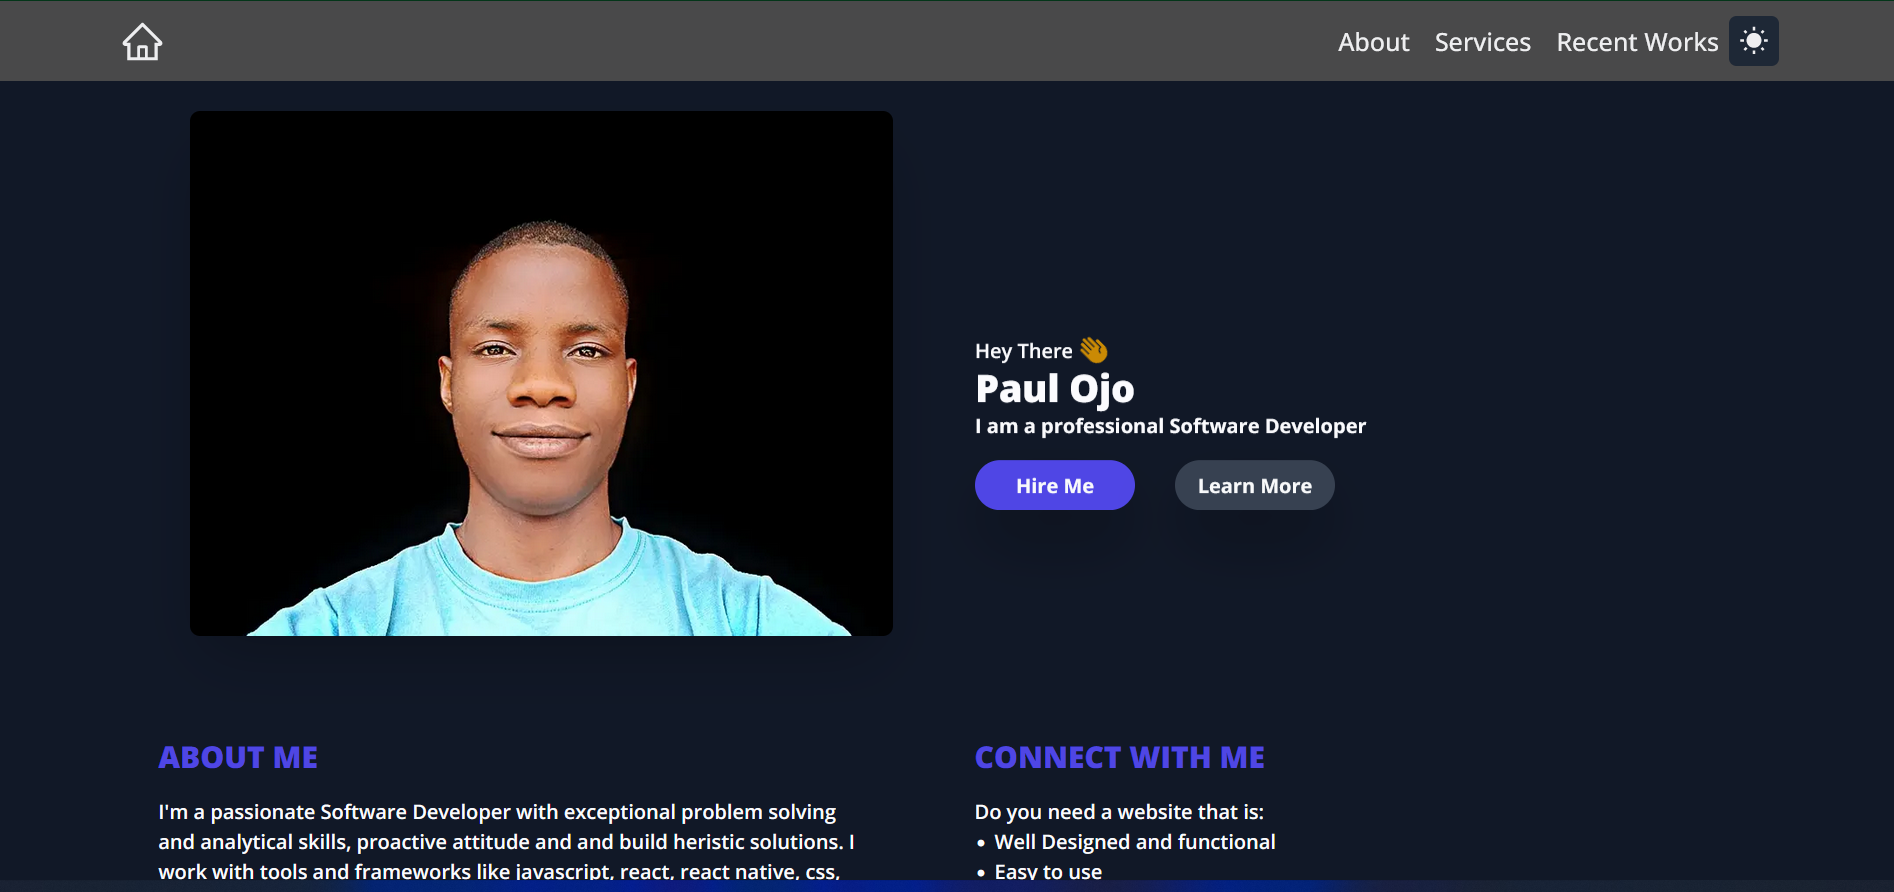
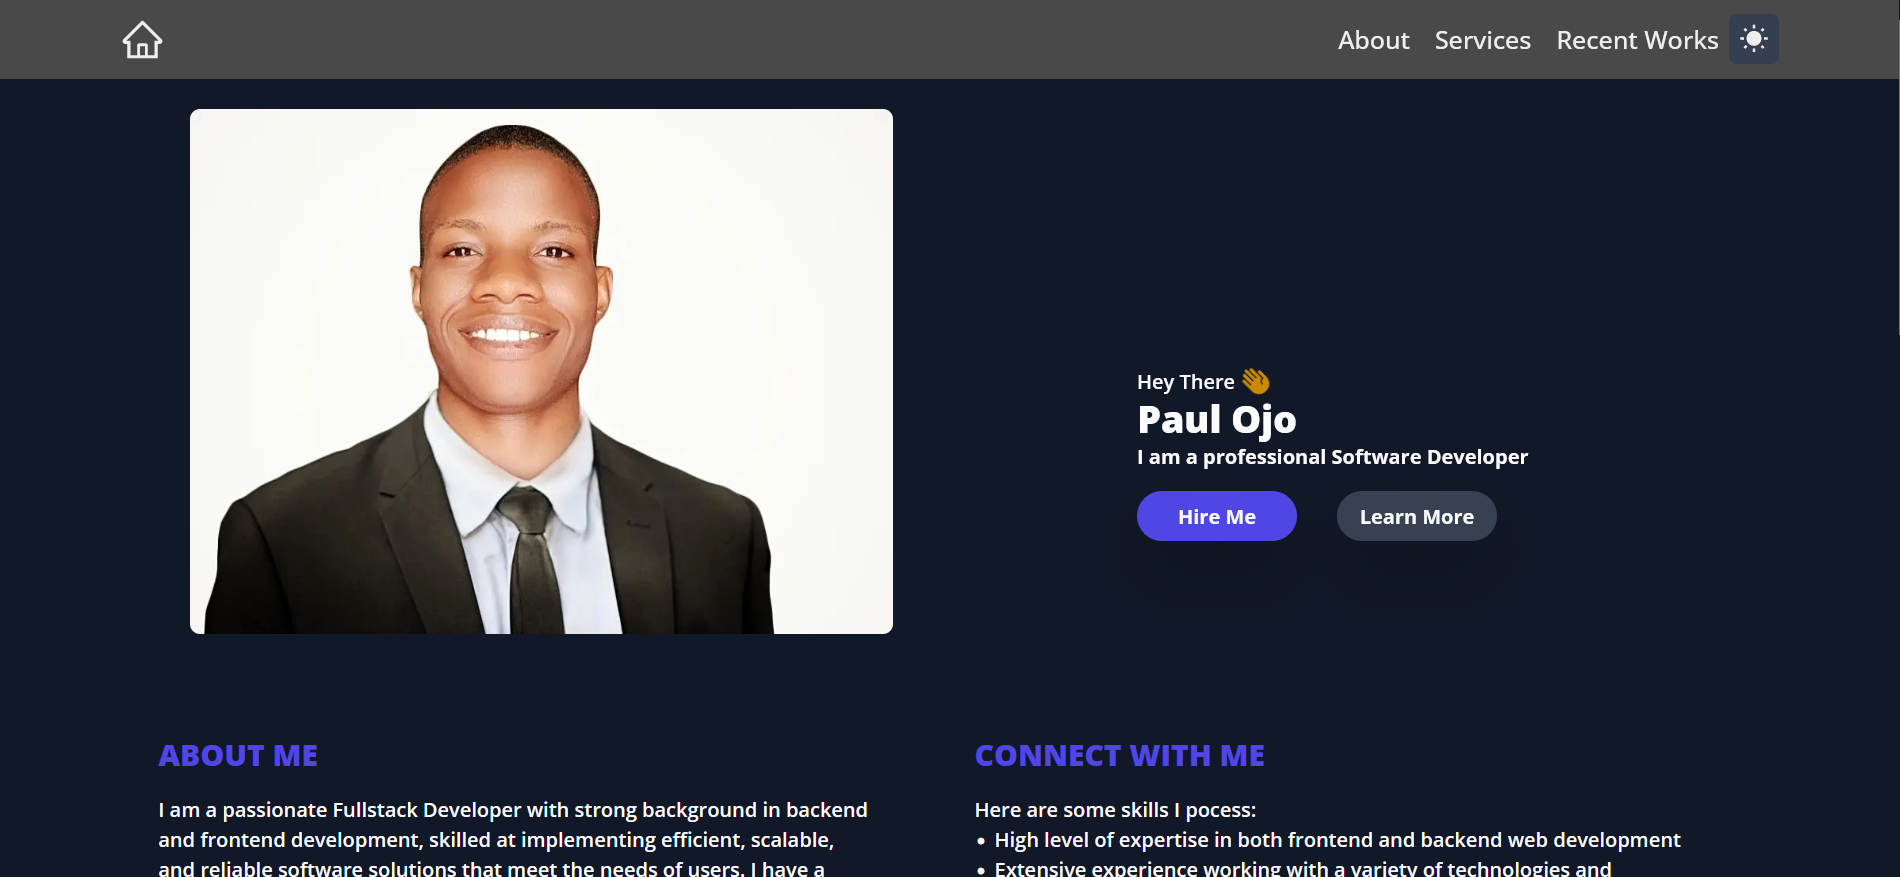
'Done'

diff --git a/pages/index.js b/pages/index.js
@@ -14,9 +14,9 @@ export default function Home() {
   const [showSocialMediaButton, setShowSocialMediaButton] = useState(false)
   return (
     <Layout>
-      <div className="w-10/12 mx-auto font-semibold transition-all duration-500">
-        <div className="grid md:grid-cols-2 md:m-10  md:ml-0 sm:grid-cols-1 justify-center mb-6">
-          <div className="flex h-80 w-80 lg:h-[420px] lg:w-11/12 mt-6 rounded-lg hover:-rotate-3 transition-all duration-500 relative mx-auto ">
+      <div className="w-10/12 mx-auto font-semibold">
+        <div className="grid md:grid-cols-2 md:m-10 md:ml-0 sm:grid-cols-1 justify-center mb-6">
+          <div className="flex h-80 w-80 lg:h-[420px] lg:w-11/12 mt-6 rounded-lg hover:-rotate-3 transition-all duration-500 relative mx-auto">
             <Image
               src="/assets/images/paul-image.jpg"
               alt="paul"
@@ -31,9 +31,7 @@ export default function Home() {
                 Hey There <MdFrontHand className="-rotate-45 text-2xl inline-flex -mt-1 text-yellow-600" />
               </div>
               <h1 className=" font-extrabold text-3xl">Paul Ojo</h1>
-
               <p className="flex-wrap font-bold ">I am a professional Software Developer</p>
-
               <div className="space-x-8 inline-flex mt-4 relative">
                 {showSocialMediaButton && (
                   <div
@@ -78,23 +76,29 @@ export default function Home() {
           <div id="about" className="flex flex-col scroll-mt-24 md:m-10  md:ml-0 sm:grid-cols-1 sm:mb-6 mt-10 md:mt-20">
             <h1 className="font-extrabold text-lg md:text-2xl text-indigo-600 ">ABOUT ME</h1>
             <p className="flex flex-wrap md:mt-4 sm:mt-2 text-inherit">
-              I'm a passionate Software Developer with exceptional problem solving and analytical skills, proactive
-              attitude and and build heristic solutions. I work with tools and frameworks like javascript, react, react
-              native, css, tailwindcss, nodejs, socket.io, and lot more. These tools help in building outstanding
-              websites and mobile apps.
+              I am a passionate Fullstack Developer with strong background in backend and frontend development, skilled
+              at implementing efficient, scalable, and reliable software solutions that meet the needs of users. I have
+              a passion for solving complex problems and a commitment to staying up-to-date with the latest trends and
+              technologies in the field.
+              <p className="mt-5">
+                My Tools Include: Nextjs | Reactjs | Node.js | Express.js | JavaScript | SQL | Postgresql | TailwindCSS
+                | Socket.io | MongoDB | Formik | RTK-Query | Redux-Toolkit | Framer-Motion | CSS | APIs | HTML and
+                more....
+              </p>
             </p>
           </div>
           <div id="services" className="flex scroll-mt-24 flex-col mt-0 md:m-10 md:mr-0 sm:mb-6 md:mt-20">
             <h1 className=" font-extrabold text-lg md:text-2xl text-indigo-600 ">CONNECT WITH ME</h1>
             <div className=" md:mt-4 sm:mt-2">
-              <p className="font-semibold">Do you need a website that is: </p>
+              <p className="font-semibold">Here are some skills I pocess: </p>
               <ul className="list-disc ml-4">
-                <li>Well Designed and functional</li>
-                <li>Easy to use</li>
-                <li>Optimized for mobile</li>
-                <li>Fresh, Quality Content</li>
-                <li>Clear calls to action</li>
-                <li>Optimized for Search (SEO) and Social Web</li>
+                <li>High level of expertise in both frontend and backend web development</li>
+                <li>
+                  Extensive experience working with a variety of technologies and frameworks, and being able to quickly
+                  learn and adapt to new ones as needed
+                </li>
+                <li>Strong problem-solving skills</li>
+                <li>Able to design and implement complex, scalable web applications</li>
               </ul>
               <p>You can reach me here:</p>
               <div className="flex space-x-4 my-4 text-lg text-center items-center">
